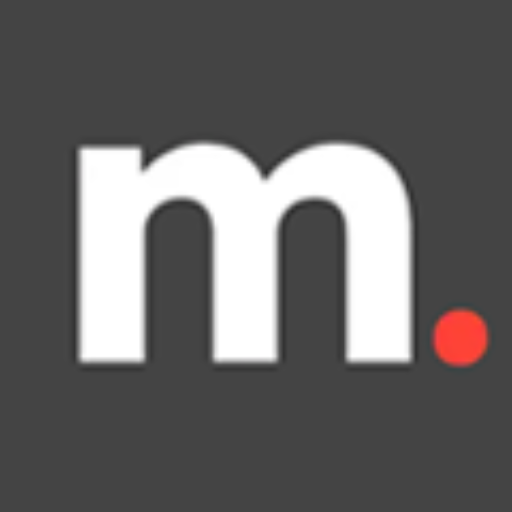
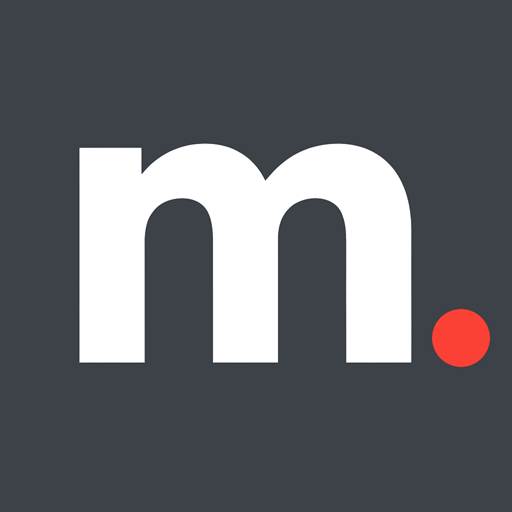
앱 알림 누를 때 홈 화면 추가 안내 및 PWA 아이콘을 정식 로고로 교체
- 아이폰 브라우저 탭에서도 앱 알림 버튼을 보이고, 누르면 홈 화면 추가 방법을 안내
- 카카오톡/네이버 등 앱 안 브라우저면 Safari 로 먼저 열라는 문구를 함께 표시
- iOS 16.4 미만은 업데이트 안내
- 안드로이드는 알림을 켠 직후 홈 화면 추가 버튼을 보여 주고, 누르면 브라우저 설치 창을 띄움
- 홈 화면 아이콘으로 연 경우에는 안내 없이 바로 알림을 켬
- PWA 아이콘(180/192/512)을 1024px 정식 로고에서 다시 만듦

diff --git a/html/public/js/push.js b/html/public/js/push.js
@@ -17,6 +17,14 @@
  *      토큰은 브라우저가 바꿀 수 있어서 그때도 새 토큰이 서버로 간다.
  *   4. 같은 브라우저에서 다른 회원이 로그인하면 이전 회원의 알림을 끈다.
  *      새 회원은 직접 앱 알림 버튼을 눌러야 받는다.
+ *
+ * 홈 화면 추가 (안내 모달은 push_subscribe.blade.php 의 #pushGuideModal)
+ *   - 사이트가 홈 화면 추가를 대신 할 수는 없다. 브라우저마다 할 수 있는 만큼만 돕는다.
+ *   - 안드로이드: 알림을 켠 직후 홈 화면 추가 버튼을 보여주고, 누르면 브라우저의 설치 창을 띄운다.
+ *     브라우저가 설치 창을 줄 수 없으면(이미 설치됨, 지원 안 함) 알림만 켠다.
+ *   - 아이폰 브라우저 탭: 웹 푸시가 안 되므로 버튼을 보여 두고, 누르면 홈 화면 추가 방법을 안내한다.
+ *     홈 화면 아이콘으로 열면 웹 푸시가 되어 위 흐름으로 알림을 켠다.
+ *   - iOS 16.4 미만: 웹 푸시 자체가 안 되므로 업데이트를 안내한다.
  */
 import { initializeApp } from 'https://www.gstatic.com/firebasejs/12.19.0/firebase-app.js';
 import { getMessaging, getToken, deleteToken, onMessage, isSupported } from 'https://www.gstatic.com/firebasejs/12.19.0/firebase-messaging.js';
@@ -32,6 +40,141 @@ let messaging = null;
 let busy = false;
 // 서비스 워커 등록 결과. 미리 등록해 두고 켤 때 그대로 쓴다.
 let swReady = null;
+// 웹 푸시를 못 써서 버튼을 누르면 안내만 하는 환경 ('ios-install' | 'ios-old'). 웹 푸시가 되면 null.
+let guideMode = null;
+// 브라우저가 넘겨 준 홈 화면 추가 이벤트. 이걸로 원할 때 설치 창을 띄운다. (안드로이드 크롬, 삼성 인터넷 등)
+// 기본 설치 배너는 그대로 두려고 preventDefault 는 하지 않는다.
+let installPrompt = null;
+
+window.addEventListener('beforeinstallprompt', function (e) {
+    installPrompt = e;
+});
+window.addEventListener('appinstalled', function () {
+    installPrompt = null;
+});
+
+// 홈 화면 아이콘으로 열었는지
+function isStandalone() {
+    return window.matchMedia('(display-mode: standalone)').matches || window.navigator.standalone === true;
+}
+
+// 아이폰/아이패드면 {major, minor} (버전을 못 읽으면 0), 아니면 null
+function iosVersion() {
+    const ua = navigator.userAgent;
+    // 아이패드는 데스크톱 사이트 모드에서 맥처럼 보여서 터치 여부로 가린다.
+    const iPadDesktop = navigator.platform === 'MacIntel' && navigator.maxTouchPoints > 1;
+    if (!/iPhone|iPad|iPod/.test(ua) && !iPadDesktop) {
+        return null;
+    }
+    // 아이폰 UA 의 'OS 16_3' 을 먼저 보고, 없으면 사파리의 'Version/16.3' 을 본다.
+    const m = ua.match(/ OS (\d+)_(\d+)/) || ua.match(/Version\/(\d+)\.(\d+)/);
+    return m ? { major: parseInt(m[1], 10), minor: parseInt(m[2], 10) } : { major: 0, minor: 0 };
+}
+
+// 카카오톡/네이버 같은 앱 안의 브라우저인지. 이 안에서는 홈 화면에 추가할 수 없다.
+function isInAppBrowser() {
+    return /KAKAOTALK|NAVER\(inapp|Instagram|FBAN|FBAV|Line\/|DaumApps/i.test(navigator.userAgent);
+}
+
+// 웹 푸시를 못 쓰는 환경에서 버튼을 눌렀을 때 보여 줄 안내. 안내할 것이 없으면 null (버튼을 숨긴다).
+function detectGuideMode() {
+    const ios = iosVersion();
+    if (!ios) {
+        return null;
+    }
+    const known = ios.major > 0;
+    const old = known && (ios.major < 16 || (ios.major === 16 && ios.minor < 4));
+    // 홈 화면 아이콘으로 열었는데도 안 되면 버전 문제로 본다.
+    return old || isStandalone() ? 'ios-old' : 'ios-install';
+}
+
+function guideModal() {
+    return document.getElementById('pushGuideModal');
+}
+
+function openGuide(mode) {
+    const modal = guideModal();
+    if (!modal) {
+        return;
+    }
+    let title = '';
+    modal.querySelectorAll('[data-push-guide-panel]').forEach(function (panel) {
+        const match = panel.getAttribute('data-push-guide-panel') === mode;
+        panel.classList.toggle('hidden', !match);
+        if (match) {
+            title = panel.getAttribute('data-title');
+        }
+    });
+    modal.querySelector('[data-push-guide-title]').textContent = title;
+
+    if (mode === 'ios-install') {
+        modal.querySelector('[data-push-guide-inapp]').classList.toggle('hidden', !isInAppBrowser());
+    }
+    if (mode === 'ios-old') {
+        const ios = iosVersion();
+        const wrap = modal.querySelector('[data-push-ios-version-wrap]');
+        if (ios && ios.major > 0) {
+            modal.querySelector('[data-push-ios-version]').textContent = 'iOS ' + ios.major + '.' + ios.minor;
+            wrap.classList.remove('hidden');
+        } else {
+            wrap.classList.add('hidden');
+        }
+    }
+
+    modal.classList.remove('hidden');
+    modal.classList.add('flex');
+}
+
+function closeGuide() {
+    const modal = guideModal();
+    if (modal) {
+        modal.classList.add('hidden');
+        modal.classList.remove('flex');
+    }
+}
+
+function bindGuide() {
+    const modal = guideModal();
+    if (!modal) {
+        return;
+    }
+    modal.querySelectorAll('[data-push-guide-close]').forEach(function (btn) {
+        btn.addEventListener('click', closeGuide);
+    });
+    // 바깥 어두운 곳을 누르거나 Esc 를 누르면 닫는다.
+    modal.addEventListener('click', function (e) {
+        if (e.target === modal) {
+            closeGuide();
+        }
+    });
+    document.addEventListener('keydown', function (e) {
+        if (e.key === 'Escape') {
+            closeGuide();
+        }
+    });
+
+    const installBtn = modal.querySelector('[data-push-install]');
+    if (installBtn) {
+        installBtn.addEventListener('click', async function () {
+            const prompt = installPrompt;
+            closeGuide();
+            if (!prompt) {
+                return;
+            }
+            // 설치 창은 한 이벤트로 한 번만 띄울 수 있다.
+            installPrompt = null;
+            try {
+                await prompt.prompt();
+                const choice = await prompt.userChoice;
+                if (choice && choice.outcome === 'accepted') {
+                    toast('홈 화면에 MQWAY 를 추가했어요.', 'success');
+                }
+            } catch (e) {
+                console.warn('[push] 홈 화면 추가 창을 띄우지 못함', e);
+            }
+        });
+    }
+}
 
 function readSync() {
     try {
@@ -60,6 +203,9 @@ function today() {
 
 // 이 브라우저가 지금 로그인한 회원 명의로 알림을 켜 두었는지
 function isRegistered() {
+    if (!('Notification' in window)) {
+        return false;
+    }
     const sync = readSync();
     return Notification.permission === 'granted' && !!sync && sync.member === config.memberIdx;
 }
@@ -181,6 +327,7 @@ async function currentToken() {
     return getToken(messaging, { vapidKey: config.vapidKey, serviceWorkerRegistration: registration });
 }
 
+// 알림을 켜고 서버가 준 안내 문구를 돌려준다. 권한을 못 받으면 null.
 async function subscribe() {
     setBusy(true);
     // iOS 는 사용자 클릭 안에서 바로 권한을 물어야 한다. 이 호출 앞에 await 를 두지 않는다.
@@ -189,13 +336,13 @@ async function subscribe() {
         toast(permission === 'denied'
             ? '알림이 차단되어 있습니다. 브라우저 설정에서 이 사이트의 알림을 허용해 주세요.'
             : '알림 권한을 허용해야 받을 수 있어요.', 'warning');
-        return;
+        return null;
     }
 
     const token = await currentToken();
     const data = await request('POST', token);
     writeSync({ token: token, date: today(), member: config.memberIdx });
-    toast(data.message, 'success');
+    return data.message;
 }
 
 // 서버 명단에서 이 기기를 빼고 브라우저 토큰도 지운다.
@@ -261,15 +408,67 @@ async function onClick() {
         }
         return;
     }
-    await subscribe();
+    // 아이폰 브라우저 탭/구버전은 여기서 알림을 켤 수 없어 안내만 한다.
+    if (guideMode) {
+        openGuide(guideMode);
+        return;
+    }
+    const message = await subscribe();
+    if (message === null) {
+        return;
+    }
+    // 브라우저가 설치 창을 줄 수 있으면 이어서 홈 화면 추가를 권한다. (모달 제목이 '알림을 켰어요')
+    if (installPrompt && !isStandalone()) {
+        openGuide('android-install');
+    } else {
+        toast(message, 'success');
+    }
+}
+
+function bindButtons() {
+    buttons().forEach(function (btn) {
+        btn.addEventListener('click', async function () {
+            // 켜고 끄는 데 몇 초씩 걸려서, 그동안 누른 것은 무시한다. (화면은 setBusy 가 막는다)
+            if (busy) {
+                return;
+            }
+            try {
+                await onClick();
+            } catch (e) {
+                console.error('[push]', e);
+                toast(e.message || '알림 설정에 실패했습니다.', 'error');
+            } finally {
+                setBusy(false);
+            }
+        });
+    });
+}
+
+async function pushSupported() {
+    if (!('serviceWorker' in navigator) || !('Notification' in window)) {
+        return false;
+    }
+    try {
+        return await isSupported();
+    } catch (e) {
+        return false;
+    }
 }
 
 async function init() {
-    if (!config || !('serviceWorker' in navigator) || !('Notification' in window)) {
+    if (!config) {
         return;
     }
-    // iOS 사파리 탭처럼 웹 푸시를 못 쓰는 환경에서는 버튼을 숨긴 채로 둔다.
-    if (!(await isSupported())) {
+    bindGuide();
+
+    // 아이폰 브라우저 탭처럼 웹 푸시를 못 쓰는 환경이면 안내할 것이 있을 때만 버튼을 보인다.
+    // 그 밖의 환경(앱 안 브라우저 등)은 버튼을 숨긴 채로 둔다.
+    if (!(await pushSupported())) {
+        guideMode = detectGuideMode();
+        if (guideMode) {
+            render();
+            bindButtons();
+        }
         return;
     }
 
@@ -304,22 +503,7 @@ async function init() {
         });
     }
 
-    buttons().forEach(function (btn) {
-        btn.addEventListener('click', async function () {
-            // 켜고 끄는 데 몇 초씩 걸려서, 그동안 누른 것은 무시한다. (화면은 setBusy 가 막는다)
-            if (busy) {
-                return;
-            }
-            try {
-                await onClick();
-            } catch (e) {
-                console.error('[push]', e);
-                toast(e.message || '알림 설정에 실패했습니다.', 'error');
-            } finally {
-                setBusy(false);
-            }
-        });
-    });
+    bindButtons();
 
     refresh().catch(function (e) {
         console.warn('[push] 토큰 갱신 실패', e);

diff --git a/html/resources/views/components/push_subscribe.blade.php b/html/resources/views/components/push_subscribe.blade.php
@@ -34,4 +34,94 @@
     window.MQ_PUSH = {!! json_encode($pushConfig, JSON_HEX_TAG | JSON_HEX_AMP | JSON_HEX_APOS | JSON_HEX_QUOT | JSON_UNESCAPED_SLASHES) !!};
 </script>
 <script type="module" src="{{ asset('js/push.js') }}?v={{ @filemtime(public_path('js/push.js')) }}"></script>
+
+{{--
+    홈 화면 추가 안내 모달. push.js 가 상황에 맞는 패널 하나만 보여준다.
+      ios-install     : 아이폰 브라우저 탭. 홈 화면에 추가해야 알림을 받을 수 있어서 방법을 안내한다.
+      ios-old         : iOS 16.4 미만. 웹 알림 자체가 안 되어 업데이트를 안내한다.
+      android-install : 안드로이드에서 알림을 켠 직후. 홈 화면 추가 창을 띄우는 버튼을 보여준다.
+    사이트가 홈 화면 추가를 대신 할 수는 없다. 안드로이드는 버튼 한 번으로 설치 창까지, 아이폰은 안내까지만 된다.
+--}}
+<div id="pushGuideModal" class="fixed inset-0 z-[70] hidden items-center justify-center p-4 bg-black/50 backdrop-blur-sm" role="dialog" aria-modal="true">
+    <div class="bg-white w-full max-w-sm rounded-2xl shadow-2xl overflow-hidden" data-push-guide-dialog>
+        <div class="flex items-center justify-between px-5 py-4 border-b border-gray-100">
+            <h3 class="text-base font-bold text-[#2D3047]" data-push-guide-title>앱 알림 받기</h3>
+            <button type="button" data-push-guide-close
+                    class="w-8 h-8 flex items-center justify-center rounded-full text-gray-400 hover:text-gray-700 hover:bg-gray-100 transition-colors"
+                    title="닫기">
+                <svg class="w-5 h-5" fill="none" stroke="currentColor" viewBox="0 0 24 24">
+                    <path stroke-linecap="round" stroke-linejoin="round" stroke-width="2" d="M6 18L18 6M6 6l12 12"></path>
+                </svg>
+            </button>
+        </div>
+
+        {{-- 아이폰: 홈 화면에 추가하는 방법 --}}
+        <div class="hidden px-5 py-5 space-y-4" data-push-guide-panel="ios-install" data-title="홈 화면에 추가하고 알림 받기">
+            <p class="text-sm text-gray-600">아이폰은 MQWAY 를 홈 화면에 추가해야 앱 알림을 받을 수 있어요.</p>
+
+            <p class="hidden text-sm text-red-600 bg-red-50 rounded-lg px-3 py-2" data-push-guide-inapp>
+                카카오톡, 네이버 같은 앱 안에서는 홈 화면에 추가할 수 없어요.
+                메뉴에서 'Safari로 열기' 를 먼저 눌러주세요.
+            </p>
+
+            <ol class="space-y-3 text-sm text-gray-700">
+                <li class="flex gap-3">
+                    <span class="shrink-0 w-6 h-6 rounded-full bg-[#2D3047] text-white text-xs font-bold flex items-center justify-center">1</span>
+                    <span>
+                        브라우저의 공유 버튼
+                        <svg class="inline w-4 h-4 -mt-1 text-blue-500" fill="none" stroke="currentColor" viewBox="0 0 24 24" aria-label="공유">
+                            <path stroke-linecap="round" stroke-linejoin="round" stroke-width="2" d="M12 3v12m0-12L8 7m4-4l4 4M6 11H5a1 1 0 00-1 1v8a1 1 0 001 1h14a1 1 0 001-1v-8a1 1 0 00-1-1h-1"></path>
+                        </svg>
+                        을 눌러주세요. 안 보이면 ... 버튼을 먼저 눌러주세요.
+                    </span>
+                </li>
+                <li class="flex gap-3">
+                    <span class="shrink-0 w-6 h-6 rounded-full bg-[#2D3047] text-white text-xs font-bold flex items-center justify-center">2</span>
+                    <span>목록에서 <strong>'홈 화면에 추가'</strong> 를 누르고 <strong>추가</strong> 를 눌러주세요.</span>
+                </li>
+                <li class="flex gap-3">
+                    <span class="shrink-0 w-6 h-6 rounded-full bg-[#2D3047] text-white text-xs font-bold flex items-center justify-center">3</span>
+                    <span>홈 화면에 생긴 <strong>MQWAY 아이콘</strong> 으로 열고, 로그인한 뒤 프로필 메뉴의 <strong>앱 알림</strong> 을 켜주세요.</span>
+                </li>
+            </ol>
+
+            <p class="text-xs text-gray-400">홈 화면 아이콘으로 열면 로그인을 한 번 더 해야 해요.</p>
+
+            <button type="button" data-push-guide-close
+                    class="w-full py-2.5 rounded-xl bg-[#2D3047] text-white text-sm font-bold hover:opacity-90 transition-opacity">
+                확인
+            </button>
+        </div>
+
+        {{-- 아이폰 구버전: 업데이트 안내 --}}
+        <div class="hidden px-5 py-5 space-y-4" data-push-guide-panel="ios-old" data-title="iOS 업데이트가 필요해요">
+            <p class="text-sm text-gray-600">
+                앱 알림은 iOS 16.4 이상에서 받을 수 있어요.
+                <span class="hidden" data-push-ios-version-wrap>지금 기기는 <strong data-push-ios-version></strong> 이에요.</span>
+            </p>
+            <p class="text-sm text-gray-700 bg-gray-50 rounded-lg px-3 py-2">
+                설정 &gt; 일반 &gt; 소프트웨어 업데이트 에서 iOS 를 업데이트한 뒤 다시 시도해 주세요.
+            </p>
+            <button type="button" data-push-guide-close
+                    class="w-full py-2.5 rounded-xl bg-[#2D3047] text-white text-sm font-bold hover:opacity-90 transition-opacity">
+                확인
+            </button>
+        </div>
+
+        {{-- 안드로이드: 알림을 켠 직후 홈 화면 추가 --}}
+        <div class="hidden px-5 py-5 space-y-4" data-push-guide-panel="android-install" data-title="알림을 켰어요">
+            <p class="text-sm text-gray-600">
+                홈 화면에 MQWAY 아이콘을 추가하면 앱처럼 바로 열 수 있어요.
+            </p>
+            <button type="button" data-push-install
+                    class="w-full py-2.5 rounded-xl bg-[#2D3047] text-white text-sm font-bold hover:opacity-90 transition-opacity">
+                홈 화면에 추가
+            </button>
+            <button type="button" data-push-guide-close
+                    class="w-full py-2 text-sm text-gray-500 hover:text-gray-700">
+                나중에
+            </button>
+        </div>
+    </div>
+</div>
 @endif

diff --git a/html/resources/views/layouts/partials/header.blade.php b/html/resources/views/layouts/partials/header.blade.php
@@ -286,7 +286,7 @@
                             </a>
                             {{--
                                 앱 푸시 알림 받기/끄기. 알림은 로그인 회원만 받을 수 있어서 프로필 메뉴 안에 둔다.
-                                웹 푸시를 쓸 수 있는 환경에서만 public/js/push.js 가 hidden 을 떼어 보이게 하고,
+                                웹 푸시를 쓸 수 있는 환경과 홈 화면 추가를 안내할 아이폰에서만 public/js/push.js 가 hidden 을 떼어 보이게 하고,
                                 켜짐/꺼짐에 따라 data-push-icon-on / data-push-icon-off 중 하나만 보이고,
                                 설정하는 동안에는 둘 다 숨기고 data-push-busy (스피너) 를 보인다.
                             --}}
